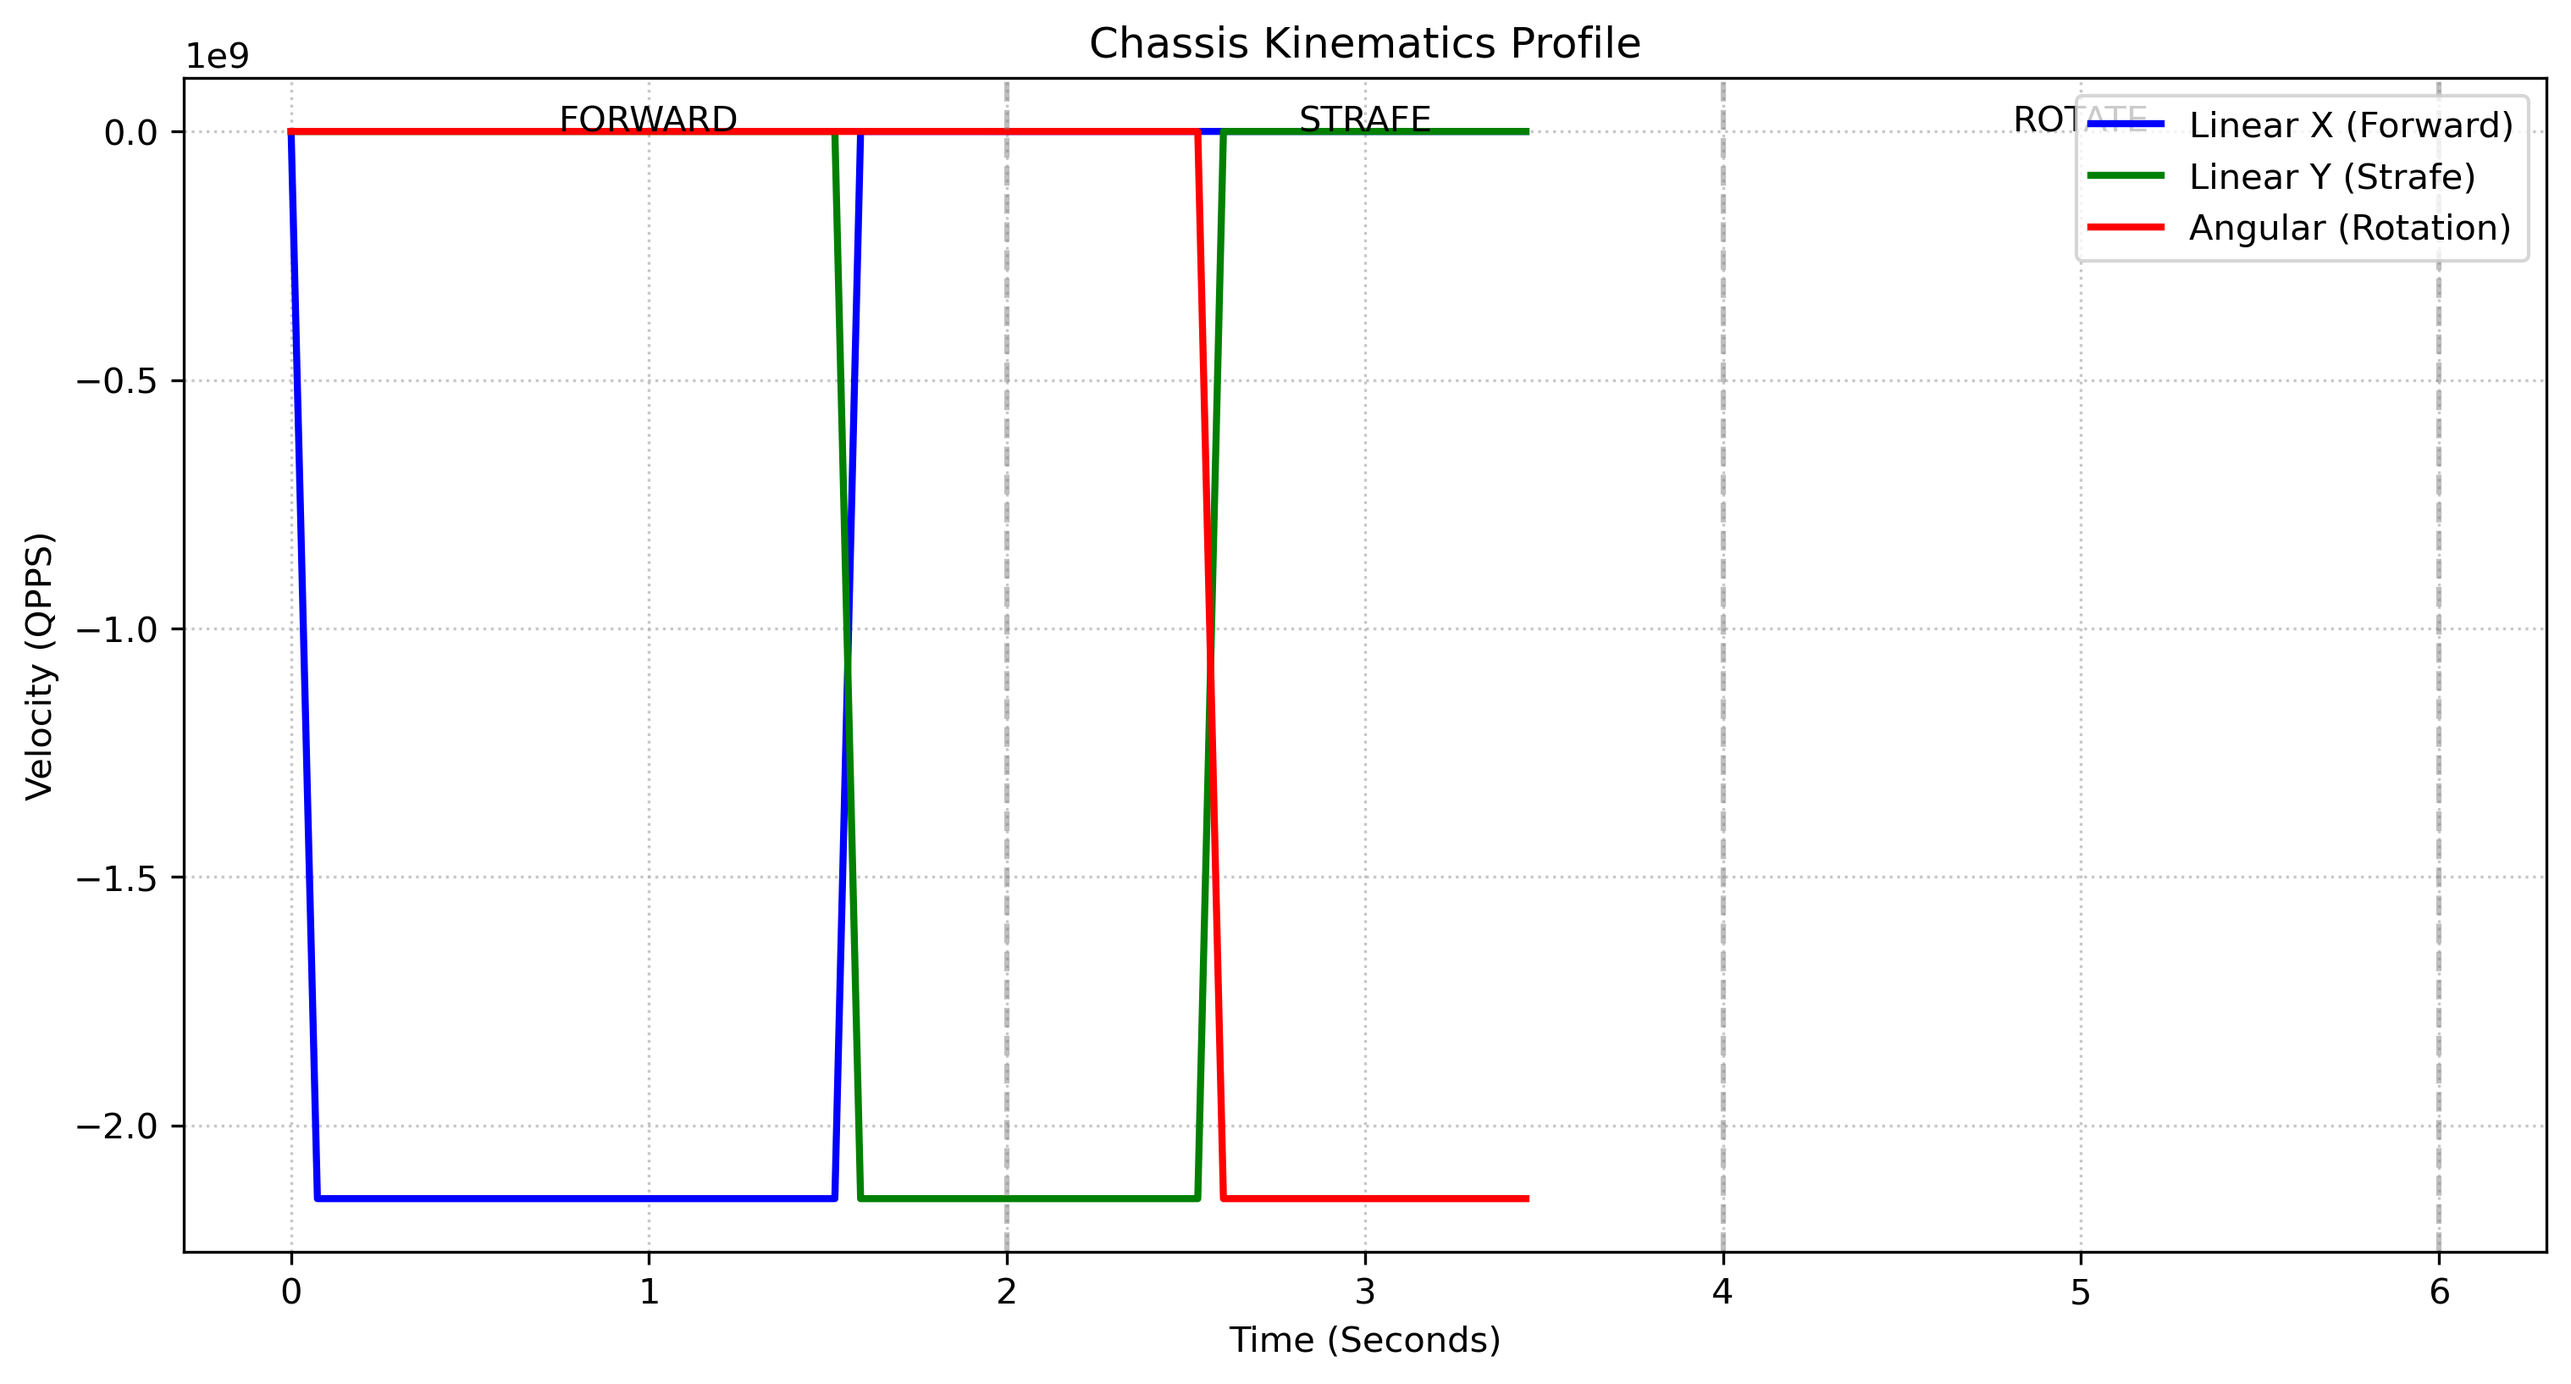
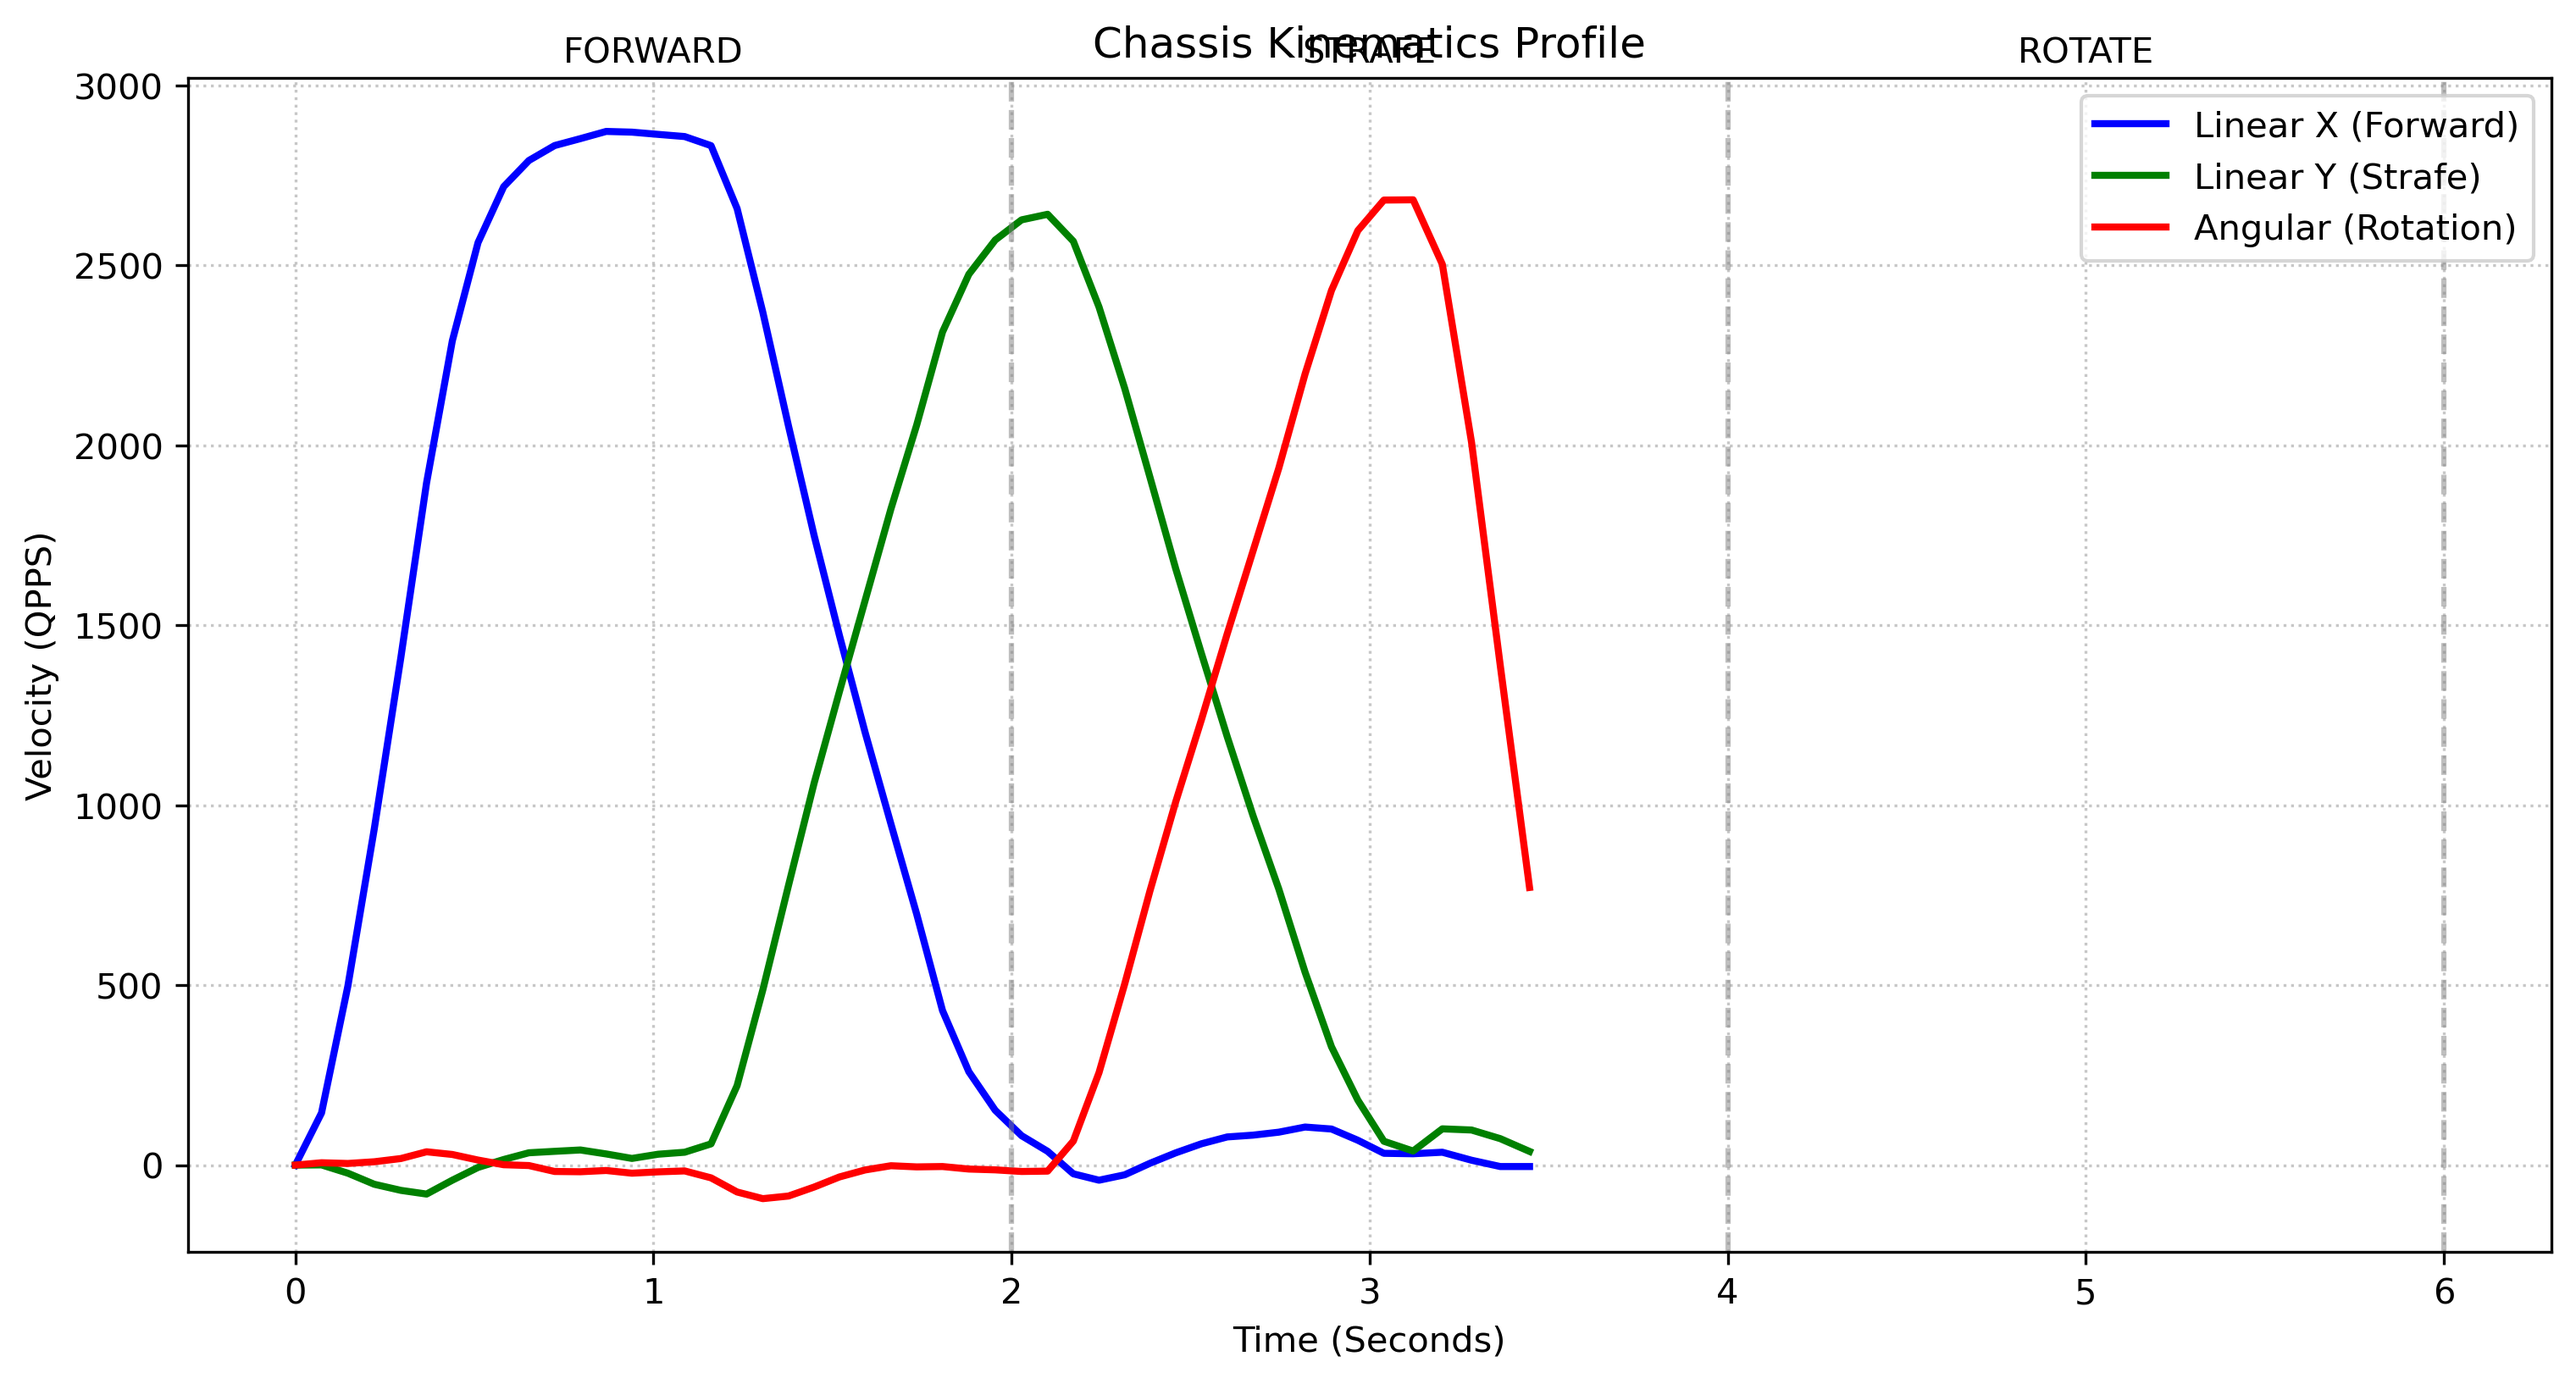
new odom data

diff --git a/odom_test.py b/odom_test.py
@@ -18,6 +18,12 @@ TEST_SPEED = int(MAX_QPPS) # Target 40% max speed for the test
 LOG_FILE = "odometry_data.csv"
 PLOT_FILE = "odometry_plot.png"
 
+def to_signed_32(val):
+    """Converts a 32-bit unsigned integer from the RoboClaw back to a signed integer."""
+    if val >= 2147483648: # If it's greater than or equal to 2^31
+        return val - 4294967296 # Subtract 2^32 to wrap it back to negative
+    return val
+
 def set_chassis_velocity(rc, vx, vy, omega):
     """Translates chassis velocity into motor commands."""
     fl_desired = vx + vy + omega
@@ -45,7 +51,7 @@ def stop_cart(rc):
         pass
 
 if __name__ == "__main__":
-    print("--- Mecanum Odometry Profiler ---")
+    print("--- Mecanum Odometry Profiler (Patched) ---")
     
     rc = Basicmicro(COMPORT_NAME, BAUD_RATE)
     if not rc.Open():
@@ -82,10 +88,11 @@ if __name__ == "__main__":
         # 2. Read Actual Wheel Speeds
         try:
             # Reversing the polarity fix to get true wheel QPPS
-            raw_m2_80 = rc.ReadSpeedM2(LEFT_RC_ADDR)[1]
-            raw_m1_80 = rc.ReadSpeedM1(LEFT_RC_ADDR)[1]
-            raw_m1_81 = rc.ReadSpeedM1(RIGHT_RC_ADDR)[1]
-            raw_m2_81 = rc.ReadSpeedM2(RIGHT_RC_ADDR)[1]
+            # Wrapped in to_signed_32() to fix the basicmicro unpacking bug
+            raw_m2_80 = to_signed_32(rc.ReadSpeedM2(LEFT_RC_ADDR)[1])
+            raw_m1_80 = to_signed_32(rc.ReadSpeedM1(LEFT_RC_ADDR)[1])
+            raw_m1_81 = to_signed_32(rc.ReadSpeedM1(RIGHT_RC_ADDR)[1])
+            raw_m2_81 = to_signed_32(rc.ReadSpeedM2(RIGHT_RC_ADDR)[1])
             
             fl_qpps = -raw_m2_80
             bl_qpps = raw_m1_80
